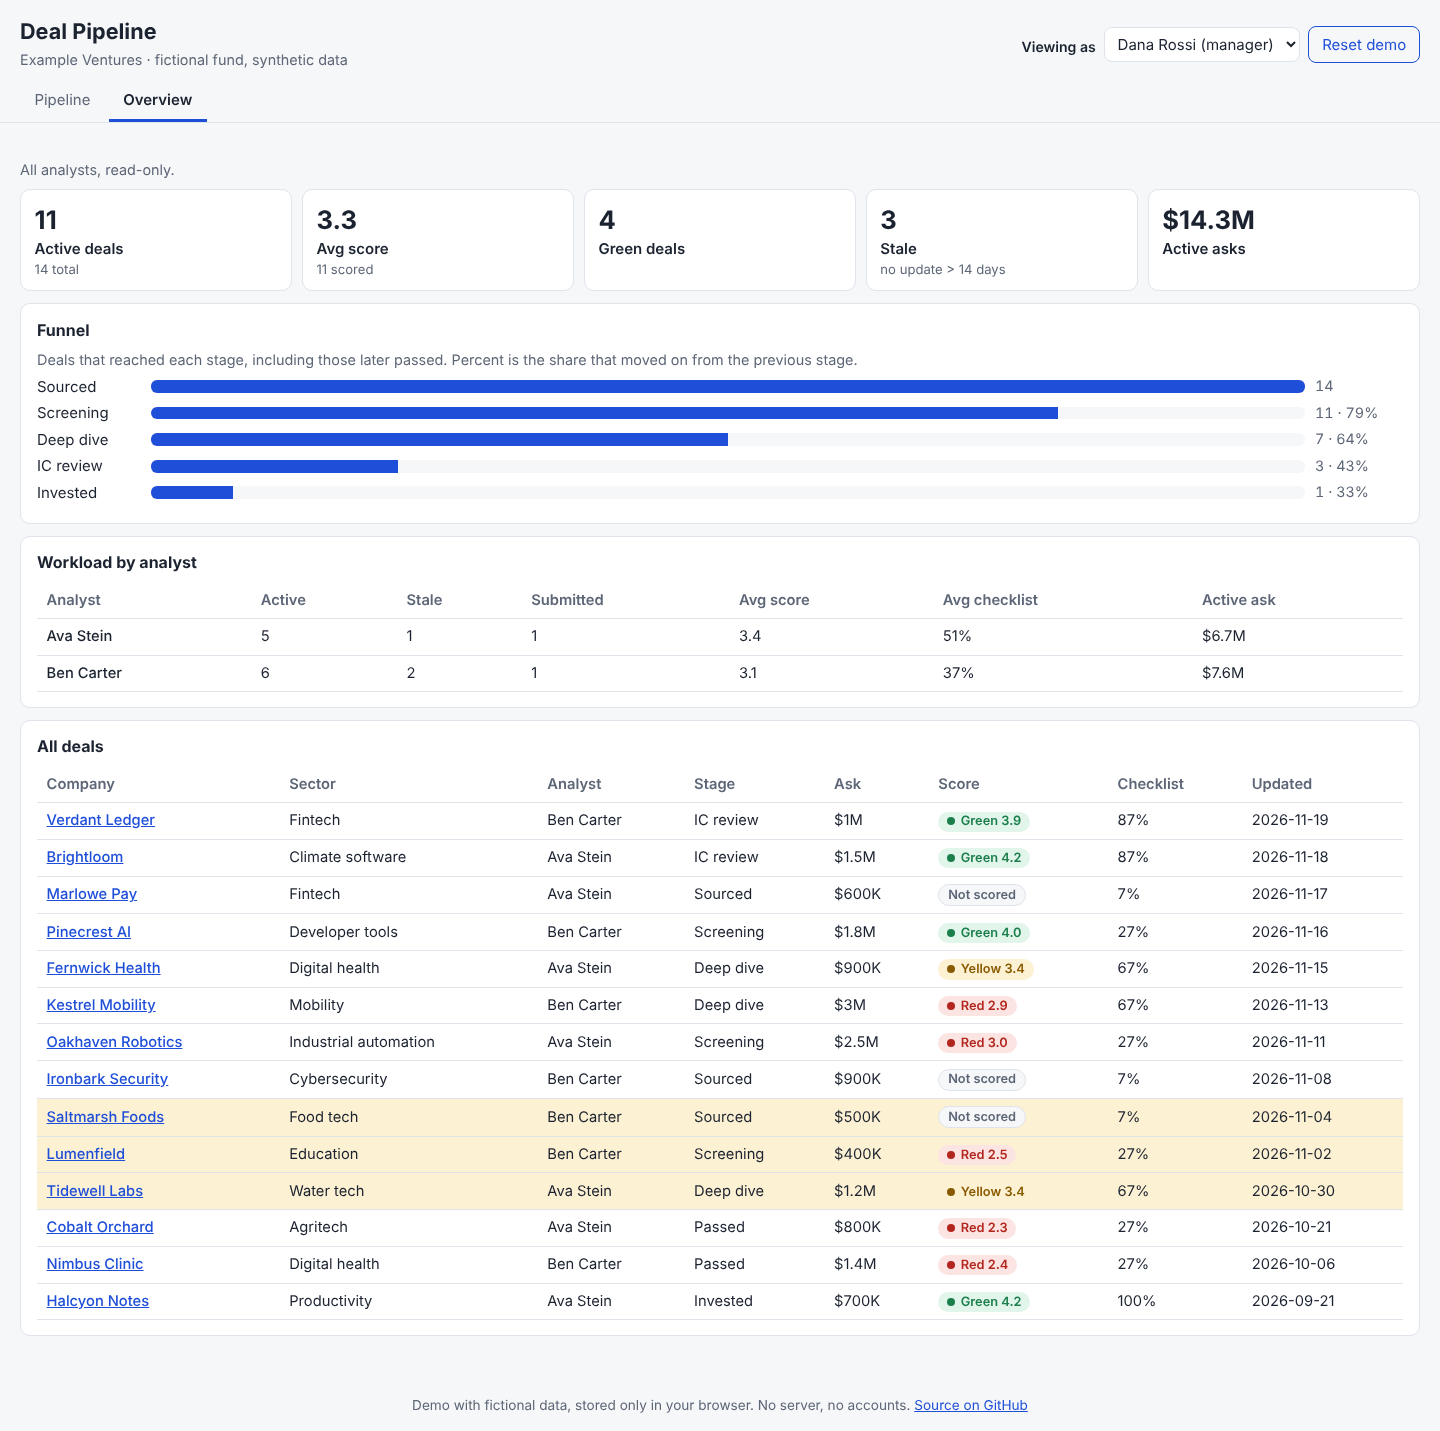
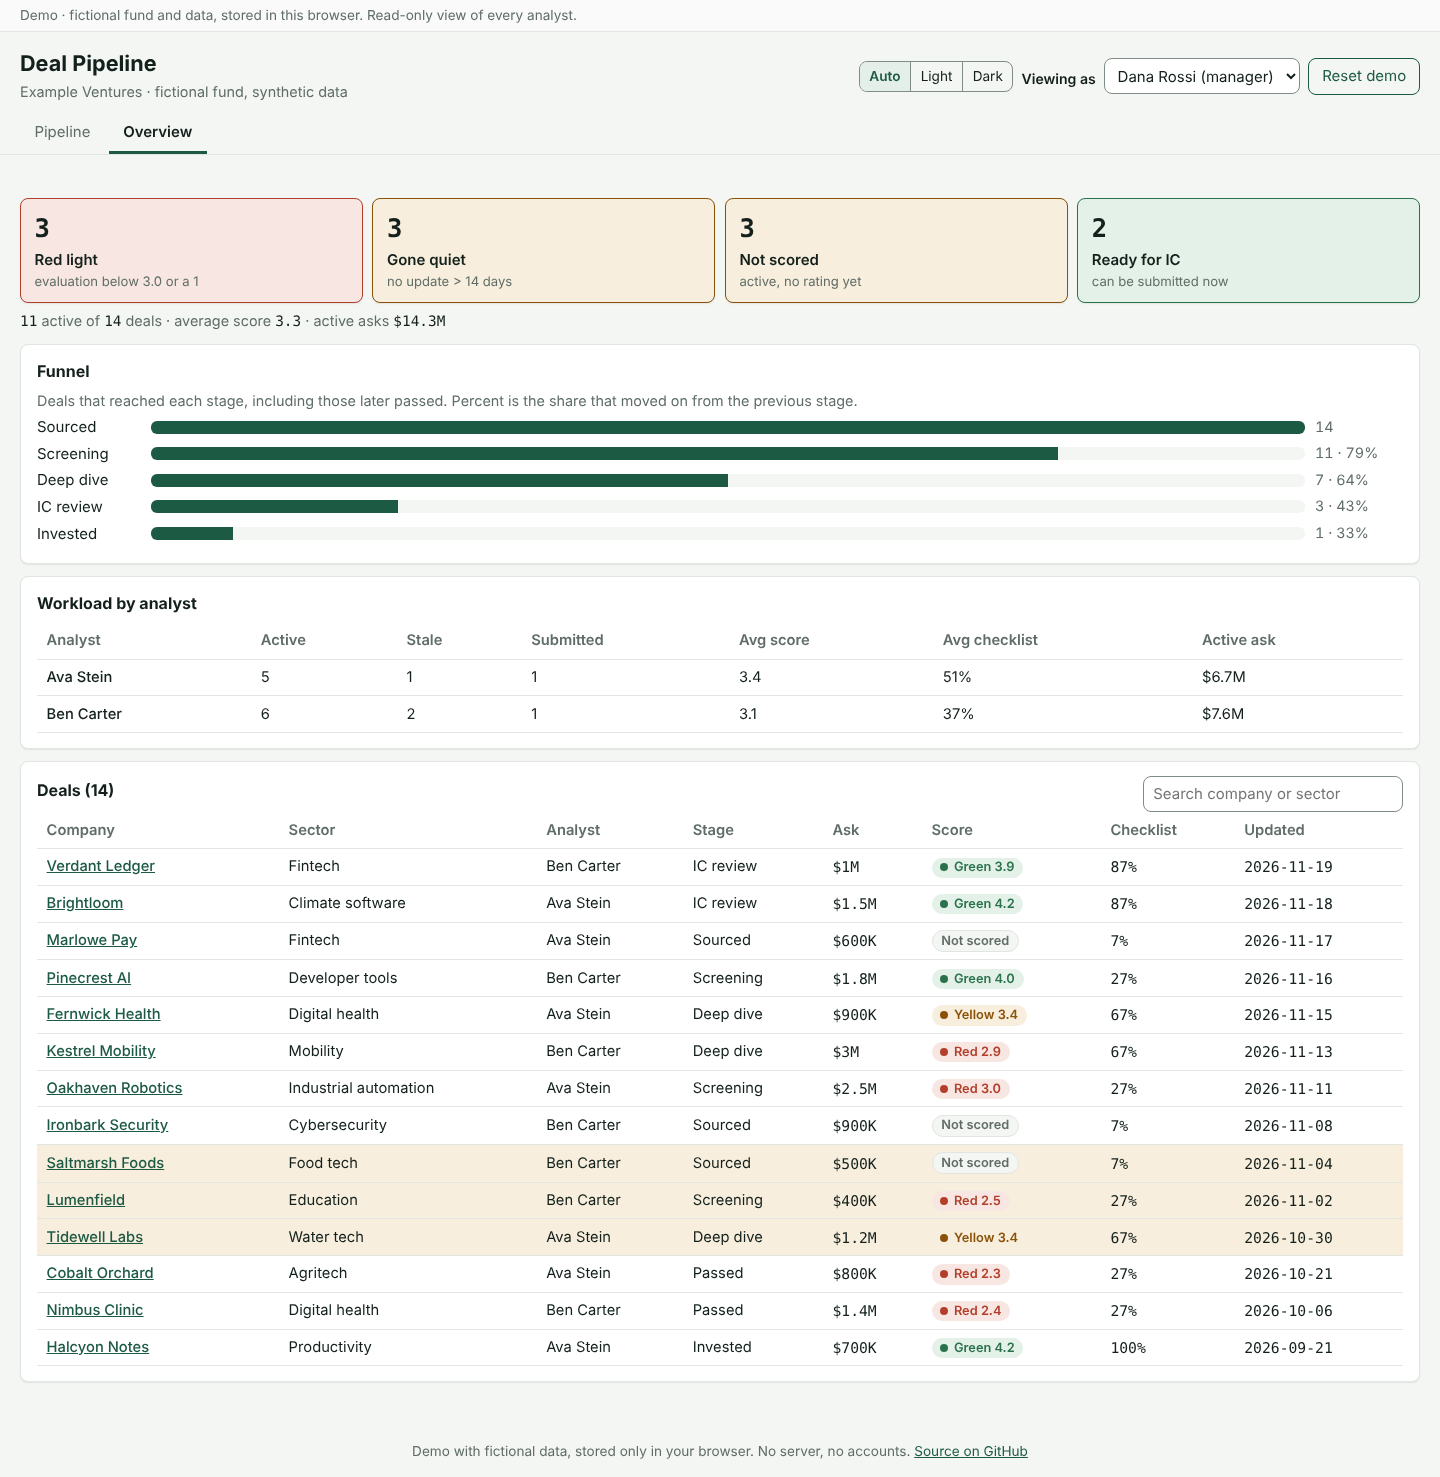
feat: calmer UI language: green tokens, side panel, theme switch, filter tiles, search
Claude-Session: https://claude.ai/code/session_01N9arR73MzAWNkNZug8VDX3

diff --git a/js/app.js b/js/app.js
@@ -1,6 +1,6 @@
 import {
   STAGES, RUBRIC, STALE_AFTER_DAYS, scoreDeal, visibleDeals, canEdit, isStale,
-  summarize, funnel, moveDeal, CHECKLIST, checklistProgress, meetingPrep, parseCsv, toCsv, validateImport, formatUsd,
+  summarize, funnel, moveDeal, ACTIVE_STAGES, CHECKLIST, checklistProgress, meetingPrep, parseCsv, toCsv, validateImport, formatUsd,
   FILTERS, filterDeals, validateSubmission, submitDeal, draftMemo, analystSummary, daysInStage,
 } from './logic.js';
 import { load, save, clear } from './store.js';
@@ -10,6 +10,14 @@ const params = new URLSearchParams(location.search);
 const pinned = /^\d{4}-\d{2}-\d{2}$/.test(params.get('today') || '');
 const today = pinned ? params.get('today') : new Date().toISOString().slice(0, 10);
 
+function readTheme() {
+  try { const t = localStorage.getItem('vc-deal-pipeline:theme'); return t === 'light' || t === 'dark' ? t : 'auto'; } catch { return 'auto'; }
+}
+function applyTheme() {
+  if (state.theme === 'auto') delete document.documentElement.dataset.theme;
+  else document.documentElement.dataset.theme = state.theme;
+}
+
 const state = {
   // A pinned ?today= date gives a reproducible demo (used for screenshots), so storage is skipped.
   deals: (!pinned && load()) || seedDeals(today),
@@ -17,8 +25,12 @@ const state = {
   view: params.get('view') === 'overview' ? 'overview' : 'pipeline',
   importPreview: null,
   filter: FILTERS.some((f) => f.id === params.get('filter')) ? params.get('filter') : 'all',
+  tile: null,
+  q: '',
+  theme: ['light', 'dark'].includes(params.get('theme')) ? params.get('theme') : readTheme(),
   status: '',
 };
+applyTheme();
 
 const root = document.getElementById('app');
 const dialog = document.getElementById('detail');
@@ -74,6 +86,16 @@ function header() {
       h('h1', {}, 'Deal Pipeline'),
       h('p', { class: 'sub' }, 'Example Ventures · fictional fund, synthetic data')),
     h('div', { class: 'who' },
+      h('div', { class: 'seg', role: 'group', 'aria-label': 'Theme' },
+        [['auto', 'Auto'], ['light', 'Light'], ['dark', 'Dark']].map(([id, label]) => h('button', {
+          type: 'button', 'aria-pressed': state.theme === id ? 'true' : 'false',
+          onclick: () => {
+            state.theme = id;
+            applyTheme();
+            try { localStorage.setItem('vc-deal-pipeline:theme', id); } catch { /* ignore */ }
+            render();
+          },
+        }, label))),
       h('label', { for: 'as' }, 'Viewing as'), select,
       h('button', {
         class: 'btn ghost',
@@ -96,8 +118,15 @@ function tabs() {
   return h('nav', { class: 'tabs', 'aria-label': 'Views' }, tab('pipeline', 'Pipeline'), tab('overview', 'Overview'));
 }
 
+function notice() {
+  const me = user();
+  const role = me.role === 'manager' ? 'Read-only view of every analyst.' : 'You see and edit only your own deals.';
+  return h('p', { class: 'notice' }, `Demo · fictional fund and data, stored in this browser. ${role}`);
+}
+
 function render() {
   root.replaceChildren(
+    notice(),
     header(),
     tabs(),
     h('p', { class: 'status', role: 'status', 'aria-live': 'polite' }, state.status),
@@ -219,7 +248,6 @@ function pipelineView() {
         isAnalyst && h('label', { class: 'btn ghost file' }, 'Import CSV',
           h('input', { type: 'file', accept: '.csv,text/csv', hidden: true, onchange: onFile })),
         h('button', { class: 'btn ghost', onclick: () => download('deals.csv', toCsv(mine)) }, 'Export CSV'))),
-    !isAnalyst && h('p', { class: 'note' }, 'Manager view is read-only. Switch to an analyst to edit their deals.'),
     filterBar,
     importPanel(),
     h('div', { class: 'board' }, STAGES.map((s) => {
@@ -375,6 +403,13 @@ function openDeal(id) {
 
 // ---- Overview -----------------------------------------------------------------
 
+const TILES = [
+  { id: 'red', label: 'Red light', hint: 'evaluation below 3.0 or a 1', tone: 'red', test: (d) => ACTIVE_STAGES.includes(d.stage) && scoreDeal(d.scores)?.light === 'red' },
+  { id: 'stale', label: 'Gone quiet', hint: `no update > ${STALE_AFTER_DAYS} days`, tone: 'yellow', test: (d) => isStale(d, today) },
+  { id: 'unscored', label: 'Not scored', hint: 'active, no rating yet', tone: 'yellow', test: (d) => ACTIVE_STAGES.includes(d.stage) && !scoreDeal(d.scores) },
+  { id: 'ready', label: 'Ready for IC', hint: 'can be submitted now', tone: 'green', test: (d) => d.stage === 'deep-dive' && validateSubmission(d).length === 0 },
+];
+
 function overviewView() {
   const me = user();
   const deals = visibleDeals(me, state.deals);
@@ -384,17 +419,24 @@ function overviewView() {
   const kpi = (label, value, hint) => h('div', { class: 'kpi' },
     h('span', { class: 'kpi-v' }, String(value)), h('span', { class: 'kpi-l' }, label), hint && h('span', { class: 'kpi-h' }, hint));
 
-  const rows = [...deals].sort((a, b) => b.updated.localeCompare(a.updated));
+  const tile = TILES.find((t) => t.id === state.tile);
+  const needle = state.q.trim().toLowerCase();
+  const rows = deals
+    .filter((d) => (!tile || tile.test(d)) && (!needle || `${d.name} ${d.sector}`.toLowerCase().includes(needle)))
+    .sort((a, b) => b.updated.localeCompare(a.updated));
   return h('main', {},
-    me.role === 'analyst'
-      ? h('p', { class: 'note' }, 'Showing your deals only. Managers see every analyst.')
-      : h('p', { class: 'note' }, 'All analysts, read-only.'),
-    h('div', { class: 'kpis' },
-      kpi('Active deals', s.active, `${s.total} total`),
-      kpi('Avg score', s.avgScore == null ? '—' : s.avgScore.toFixed(1), `${s.scored} scored`),
-      kpi('Green deals', s.green),
-      kpi('Stale', s.stale, `no update > ${STALE_AFTER_DAYS} days`),
-      kpi('Active asks', formatUsd(s.activeAskUsd))),
+    h('div', { class: 'tiles', role: 'group', 'aria-label': 'Filter the table' }, TILES.map((t) => {
+      const n = deals.filter((d) => t.test(d)).length;
+      const pressed = state.tile === t.id;
+      return h('button', {
+        class: `tile${n === 0 ? ' zero' : ` hot ${t.tone}`}`, 'aria-pressed': pressed ? 'true' : 'false',
+        onclick: () => { state.tile = pressed ? null : t.id; render(); },
+      }, h('span', { class: 'v' }, String(n)), h('span', { class: 'l' }, t.label), h('span', { class: 'h' }, t.hint));
+    })),
+    h('p', { class: 'lead' },
+      h('span', { class: 'num' }, String(s.active)), ' active of ', h('span', { class: 'num' }, String(s.total)),
+      ' deals · average score ', h('span', { class: 'num' }, s.avgScore == null ? '—' : s.avgScore.toFixed(1)),
+      ' · active asks ', h('span', { class: 'num' }, formatUsd(s.activeAskUsd))),
     h('section', { class: 'panel' },
       h('h2', {}, 'Funnel'),
       h('p', { class: 'note' }, 'Deals that reached each stage, including those later passed. Percent is the share that moved on from the previous stage.'),
@@ -415,7 +457,13 @@ function overviewView() {
           h('td', {}, a.avgChecklist == null ? '—' : `${a.avgChecklist}%`),
           h('td', {}, formatUsd(a.activeAskUsd)))))))),
     h('section', { class: 'panel' },
-      h('h2', {}, 'All deals'),
+      h('div', { class: 'row', style: 'justify-content:space-between' },
+        h('h2', {}, `Deals (${rows.length})`),
+        h('div', { class: 'row' },
+          h('label', { class: 'sr', for: 'q' }, 'Search deals'),
+          h('input', { id: 'q', class: 'search', type: 'search', placeholder: 'Search company or sector', value: state.q,
+            oninput: (e) => { state.q = e.target.value; render(); document.getElementById('q').focus(); document.getElementById('q').setSelectionRange(state.q.length, state.q.length); } }),
+          (tile || needle) && h('button', { class: 'btn ghost', onclick: () => { state.tile = null; state.q = ''; render(); } }, 'Clear'))),
       h('div', { class: 'scroll' }, h('table', {},
         h('thead', {}, h('tr', {}, ['Company', 'Sector', 'Analyst', 'Stage', 'Ask', 'Score', 'Checklist', 'Updated'].map((c) => h('th', { scope: 'col' }, c)))),
         h('tbody', {}, rows.map((d) => h('tr', { class: isStale(d, today) ? 'is-stale' : '' },
@@ -423,10 +471,10 @@ function overviewView() {
           h('td', {}, d.sector),
           h('td', {}, analystName(d.analyst)),
           h('td', {}, STAGES.find((st) => st.id === d.stage).label),
-          h('td', {}, formatUsd(d.askUsd)),
+          h('td', { class: 'num' }, formatUsd(d.askUsd)),
           h('td', {}, pill(scoreDeal(d.scores))),
-          h('td', {}, `${checklistProgress(d).percent}%`),
-          h('td', {}, d.updated))))))));
+          h('td', { class: 'num' }, `${checklistProgress(d).percent}%`),
+          h('td', { class: 'num' }, d.updated))))))));
 }
 
 render();

diff --git a/css/style.css b/css/style.css
@@ -1,22 +1,39 @@
+/* Design language: calm green surfaces, soft status colours, 8px radius, tabular numerals.
+   Light by default, dark follows the system, and the header switch overrides both. */
 :root {
-  --bg: #f6f7f9; --surface: #fff; --ink: #1c2330; --muted: #5d6676; --line: #dfe3ea;
-  --brand: #1f4fd8; --brand-ink: #fff;
-  --green: #1a7f4b; --green-bg: #e2f5ea;
-  --yellow: #8a5a00; --yellow-bg: #fdf1d3;
-  --red: #b3261e; --red-bg: #fbe4e2;
-  --radius: 10px;
+  --bg: #f4f6f4; --surface: #fff; --surface-2: #f9faf9; --ink: #13201b; --muted: #5f6d66; --line: #e1e6e2; --line-strong: #cbd3ce; --control: #818c86;
+  --brand: #1d5a44; --brand-ink: #fff; --brand-soft: #e5efe9;
+  --green: #2a724c; --green-bg: #e3f1e8;
+  --yellow: #8a5208; --yellow-bg: #f8eedd;
+  --red: #b13f2c; --red-bg: #f8e6e2;
+  --info-bg: #e6ecf7;
+  --radius: 8px;
+  --shadow: 0 1px 2px rgba(19,32,27,.05), 0 1px 1px rgba(19,32,27,.03);
+  --shadow-pop: 0 12px 32px rgba(19,32,27,.12), 0 2px 6px rgba(19,32,27,.05);
+  --num: "IBM Plex Mono", ui-monospace, Menlo, monospace;
 }
 @media (prefers-color-scheme: dark) {
-  :root {
-    --bg: #12151b; --surface: #1b2029; --ink: #e8ebf1; --muted: #9aa3b2; --line: #2c3340;
-    --brand: #6b8cff; --brand-ink: #0c1020;
-    --green: #5fd49a; --green-bg: #12301f;
-    --yellow: #f0c25a; --yellow-bg: #35290a;
-    --red: #ff8a80; --red-bg: #3a1714;
+  :root:not([data-theme="light"]) {
+    --bg: #0e1311; --surface: #151b18; --surface-2: #121815; --ink: #e5ebe7; --muted: #8e9b94; --line: #242d29; --line-strong: #334039; --control: #5d6b64;
+    --brand: #74c19c; --brand-ink: #0b1511; --brand-soft: #1a2b23;
+    --green: #74c19c; --green-bg: #17291f;
+    --yellow: #e2a453; --yellow-bg: #2c2214;
+    --red: #ec8a76; --red-bg: #2e1a16;
+    --info-bg: #1a2232;
+    --shadow: 0 1px 2px rgba(0,0,0,.4); --shadow-pop: 0 16px 40px rgba(0,0,0,.55); color-scheme: dark;
   }
 }
+:root[data-theme="dark"] {
+  --bg: #0e1311; --surface: #151b18; --surface-2: #121815; --ink: #e5ebe7; --muted: #8e9b94; --line: #242d29; --line-strong: #334039; --control: #5d6b64;
+  --brand: #74c19c; --brand-ink: #0b1511; --brand-soft: #1a2b23;
+  --green: #74c19c; --green-bg: #17291f;
+  --yellow: #e2a453; --yellow-bg: #2c2214;
+  --red: #ec8a76; --red-bg: #2e1a16;
+  --info-bg: #1a2232;
+  --shadow: 0 1px 2px rgba(0,0,0,.4); --shadow-pop: 0 16px 40px rgba(0,0,0,.55); color-scheme: dark;
+}
 * { box-sizing: border-box; }
-body { margin: 0; background: var(--bg); color: var(--ink); font: 15px/1.45 system-ui, -apple-system, "Segoe UI", Roboto, sans-serif; }
+body { margin: 0; background: var(--bg); color: var(--ink); font: 15px/1.45 "Heebo", "Segoe UI", system-ui, -apple-system, Arial, sans-serif; }
 h1 { font-size: 1.35rem; margin: 0; }
 h2 { font-size: 1rem; margin: 0 0 .5rem; }
 h3 { font-size: .95rem; margin: 1rem 0 .25rem; }
@@ -26,7 +43,7 @@ h3 { font-size: .95rem; margin: 1rem 0 .25rem; }
 .sub, .note, .empty { color: var(--muted); margin: .15rem 0; font-size: .9rem; }
 .top { display: flex; justify-content: space-between; align-items: center; gap: 1rem; flex-wrap: wrap; padding: 1rem 1.25rem .5rem; }
 .who { display: flex; align-items: center; gap: .5rem; flex-wrap: wrap; }
-select, input, textarea { font: inherit; color: var(--ink); background: var(--surface); border: 1px solid var(--line); border-radius: 8px; padding: .4rem .55rem; }
+select, input, textarea { font: inherit; color: var(--ink); background: var(--surface); border: 1px solid var(--control); border-radius: var(--radius); padding: .4rem .55rem; }
 textarea { width: 100%; resize: vertical; }
 :focus-visible { outline: 3px solid var(--brand); outline-offset: 2px; }
 .btn { font: inherit; cursor: pointer; border: 1px solid var(--brand); background: var(--brand); color: var(--brand-ink); border-radius: 8px; padding: .4rem .8rem; }
@@ -60,7 +77,7 @@ main { padding: .5rem 1.25rem 2rem; }
 .errors { margin: .25rem 0 .75rem; padding-left: 1.2rem; color: var(--red); }
 .kpis { display: grid; grid-template-columns: repeat(auto-fit, minmax(150px, 1fr)); gap: .6rem; margin: .5rem 0; }
 .kpi { background: var(--surface); border: 1px solid var(--line); border-radius: var(--radius); padding: .7rem .85rem; display: flex; flex-direction: column; }
-.kpi-v { font-size: 1.6rem; font-weight: 650; }
+.kpi-v { font-size: 1.6rem; font-weight: 600; font-family: var(--num); }
 .kpi-l { font-weight: 600; }
 .kpi-h { color: var(--muted); font-size: .82rem; }
 .bar-row { display: grid; grid-template-columns: 6.5rem 1fr 5.5rem; align-items: center; gap: .6rem; margin: .3rem 0; }
@@ -73,8 +90,8 @@ th, td { text-align: left; padding: .45rem .6rem; border-bottom: 1px solid var(-
 thead th { color: var(--muted); font-weight: 600; }
 tbody th { font-weight: 500; }
 .is-stale td, .is-stale th { background: var(--yellow-bg); }
-dialog { width: min(640px, calc(100vw - 1.5rem)); max-height: calc(100vh - 2rem); overflow: auto; border: 1px solid var(--line); border-radius: 14px; padding: 1.1rem 1.25rem; background: var(--surface); color: var(--ink); }
-dialog::backdrop { background: rgb(10 14 22 / .55); }
+dialog { width: min(560px, 100vw); height: 100vh; max-height: 100vh; margin: 0 0 0 auto; overflow: auto; border: 0; border-left: 1px solid var(--line-strong); border-radius: 0; padding: 1.1rem 1.25rem 1.5rem; background: var(--surface); color: var(--ink); box-shadow: var(--shadow-pop); }
+dialog::backdrop { background: rgb(10 14 12 / .35); }
 .grid2 { display: grid; grid-template-columns: 1fr 1fr; gap: .75rem; margin-top: .5rem; }
 .grid2 select, .grid2 input { width: 100%; }
 label { display: block; font-weight: 600; font-size: .88rem; margin: .5rem 0 .2rem; }
@@ -101,3 +118,28 @@ label { display: block; font-weight: 600; font-size: .88rem; margin: .5rem 0 .2r
 .timeline li { padding: .2rem 0 .2rem .9rem; border-left: 2px solid var(--line); }
 .timeline .when { display: inline-block; min-width: 6.5rem; opacity: .7; font-variant-numeric: tabular-nums; }
 .memo { white-space: pre-wrap; background: rgba(127,127,127,.1); border-radius: 6px; padding: .75rem; font-size: .85rem; max-height: 18rem; overflow: auto; }
+
+/* header, theme switch, notice bar */
+.notice { margin: 0; padding: .35rem 1.25rem; font-size: .85rem; color: var(--muted); background: var(--surface-2); border-bottom: 1px solid var(--line); }
+.seg { display: inline-flex; border: 1px solid var(--control); border-radius: var(--radius); overflow: hidden; }
+.seg button { font: inherit; font-size: .85rem; background: transparent; color: var(--ink); border: 0; padding: .3rem .6rem; cursor: pointer; }
+.seg button + button { border-left: 1px solid var(--control); }
+.seg button[aria-pressed="true"] { background: var(--brand-soft); color: var(--brand); font-weight: 600; }
+.card, .col, .panel, .kpi { box-shadow: var(--shadow); }
+.num, td.num { font-family: var(--num); font-variant-numeric: tabular-nums; }
+
+/* exception tiles that double as filters */
+.tiles { display: grid; grid-template-columns: repeat(auto-fit, minmax(170px, 1fr)); gap: .6rem; margin: .5rem 0; }
+.tile { text-align: left; font: inherit; color: inherit; cursor: pointer; display: flex; flex-direction: column; gap: .1rem; background: var(--surface); border: 1px solid var(--line); border-radius: var(--radius); padding: .7rem .85rem; box-shadow: var(--shadow); }
+.tile .v { font-family: var(--num); font-size: 1.6rem; font-weight: 600; }
+.tile .l { font-weight: 600; }
+.tile .h { color: var(--muted); font-size: .82rem; }
+.tile.zero { color: var(--muted); }
+.tile.hot.red { border-color: var(--red); background: var(--red-bg); }
+.tile.hot.yellow { border-color: var(--yellow); background: var(--yellow-bg); }
+.tile.hot.green { border-color: var(--green); background: var(--green-bg); }
+.tile[aria-pressed="true"] { outline: 2px solid var(--brand); outline-offset: 1px; }
+.lead { color: var(--muted); font-size: .9rem; margin: .4rem 0 .6rem; }
+.lead .num { color: var(--ink); }
+.search { min-width: 14rem; }
+input[type="radio"], input[type="checkbox"] { accent-color: var(--brand); }

diff --git a/README.md b/README.md
@@ -35,6 +35,7 @@ I built it from my experience mentoring early-stage startups through a universit
 - **Manager overview.** Workload by analyst (active, stale, submitted, average score and checklist, active ask), active deals, average score, green deals, stale deals, total active ask, a funnel with stage-to-stage conversion, and a table of all deals with checklist progress.
 - **Stale detection.** An active deal with no update for more than 14 days is flagged.
 - **CSV import and export.** Import validates every row and reports problems by file line number. Valid rows can still be imported when others fail. Duplicates and unknown stages are caught.
+- **Calm interface.** Quiet surfaces, with colour kept for what needs action: four exception tiles (red light, gone quiet, not scored, ready for IC) double as table filters, search narrows the list, and a deal opens in a side panel while the list stays in view. Light, dark and auto themes.
 - **Accessible by default.** Keyboard operable, labelled controls, status messages announced, light and dark themes, and traffic lights that carry a word as well as a colour.
 
 ## How it is built
